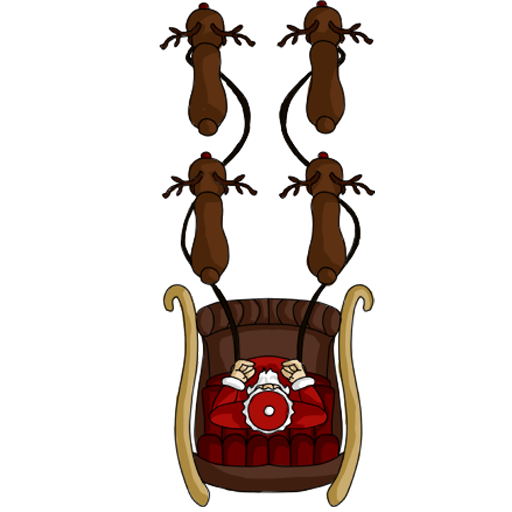
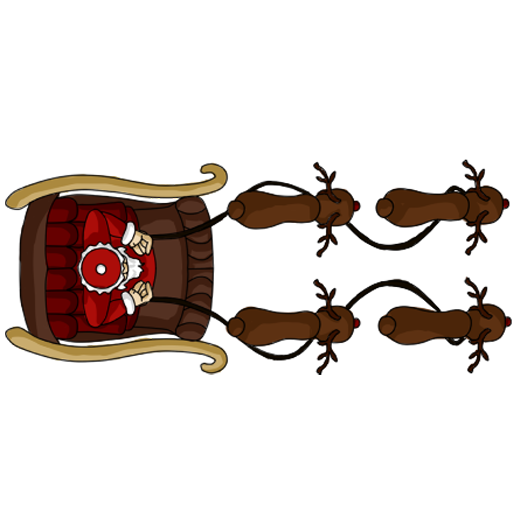
updated movement

diff --git a/game.js b/game.js
@@ -21,11 +21,13 @@ var state = {
         player.scale.setTo(0.3, 0.3); //verkleinert das Playerimage
         player.anchor.set(0.5);
 
-        // game.physics.arcade.enable(player);
+        game.physics.arcade.enable(player);
 
-        game.physics.p2.enable(player);
+        // game.physics.p2.enable(player);
 
         player.body.fixedRotation = true;
+
+        player.body.collideWorldBounds=true;
 
         cursors = game.input.keyboard.createCursorKeys();
 
@@ -36,49 +38,42 @@ var state = {
         game.camera.follow(player, Phaser.Camera.FOLLOW_LOCKON, 0.1, 0.1);
     },
     update: function () {
-        player.body.setZeroVelocity();
-
-        if (cursors.up.isDown) {
-            player.body.moveUp(300)
-        }
-        else if (cursors.down.isDown) {
-            player.body.moveDown(300);
-        }
-
-        if (cursors.left.isDown) {
-            player.body.velocity.x = -300;
-        }
-        else if (cursors.right.isDown) {
-            player.body.moveRight(300);
-        }
-
-
-        // if (cursors.up.isDown)
-        // {
-        //     game.physics.arcade.accelerationFromRotation(player.rotation, 300, player.body.acceleration);
+        // player.body.setZeroVelocity();
+        //
+        // if (cursors.up.isDown) {
+        //     player.body.moveUp(300)
         // }
-        // else
-        // {
-        //     player.body.acceleration.set(0);
+        // else if (cursors.down.isDown) {
+        //     player.body.moveDown(300);
         // }
         //
-        // if (cursors.left.isDown)
-        // {
-        //     player.body.angularVelocity = -300;
+        // if (cursors.left.isDown) {
+        //     player.body.velocity.x = -300;
         // }
-        // else if (cursors.right.isDown)
-        // {
-        //     player.body.angularVelocity = 300;
+        // else if (cursors.right.isDown) {
+        //     player.body.moveRight(300);
         // }
-        // else
-        // {
-        //     player.body.angularVelocity = 0;
-        // }
+
+        player.body.velocity.x = 0;
+        player.body.velocity.y = 0;
+        player.body.angularVelocity = 0;
+
+        if (game.input.keyboard.isDown(Phaser.Keyboard.LEFT)) {
+            player.body.angularVelocity = -300;
+        }else if (game.input.keyboard.isDown(Phaser.Keyboard.RIGHT)) {
+            player.body.angularVelocity = 300;
+        }
+
+        if (game.input.keyboard.isDown(Phaser.Keyboard.UP)) {
+            game.physics.arcade.velocityFromAngle(player.angle, 500, player.body.velocity);
+        }
+
 
 
     }, render: function () {
         game.debug.cameraInfo(game.camera, 32, 32);
-    },
+
+        },
     start: function () {
 
     },
@@ -109,13 +104,14 @@ var state = {
         }, this);
         move.start();
 
-    }
+    },
     // setGameOver: function () {
     //     this.timeOver = this.game.time.now;
     //     this.gameOver = true;
     //
     //     this.scoreText.setText("FINAL SCORE: " + this.score + "\nTOUCH TO TRY AGAIN");
     // }
+
 };
 
 
